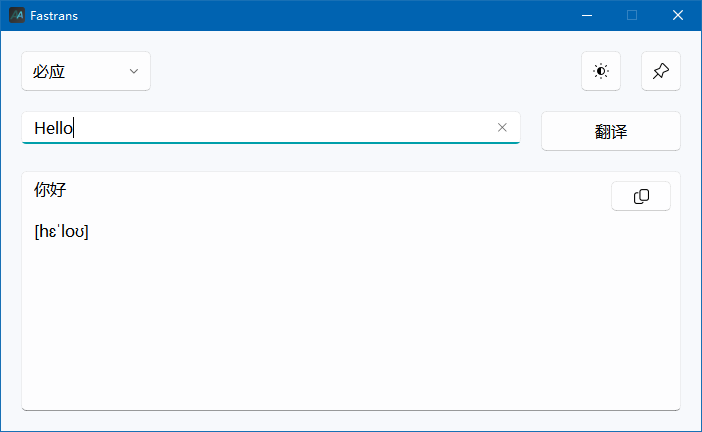
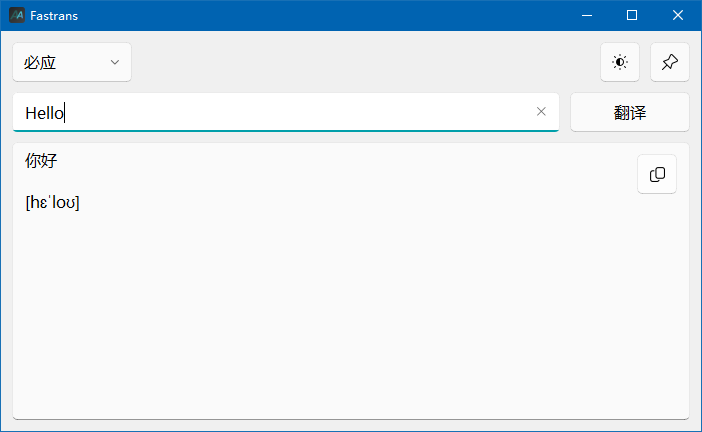
修改文档 -> v1.1.0

diff --git a/README.md b/README.md
@@ -6,7 +6,6 @@
 <br><br>
 Fastrans 是一个美观简约、方便快速的翻译软件，支持多平台。
 <br>
-Fastrans is a pretty and fast translation software, which supports different platforms.
 <br><br>
 <img alt="GitHub License" src="https://img.shields.io/github/license/YaoqxCN/Fastrans">
 <img alt="GitHub Release" src="https://img.shields.io/github/v/release/YaoqxCN/Fastrans">
@@ -21,26 +20,29 @@ Fastrans is a pretty and fast translation software, which supports different pla
 
 ## ✨ 功能 / Features
 
-- [x] 英汉互译 / English-Chinese translation
-- [x] 其他语种自动翻译中文 / Automatically translate other languages to Chinese
-- [x] 明暗主题切换 / Switch between light and dark mode
-- [x] 可选不同翻译平台（支持必应、有道、搜狗）/ Optional different translation platforms (support Bing, Youdao, Sogou)
-- [x] 可显示音标 / Available to show phonetic symbol
-- [x] 可置顶窗口 / Available to pin the window
+- [x] 英汉互译
+- [x] 明暗主题切换
+- [x] 可选不同翻译平台（支持必应、有道、搜狗）
+- [x] 可显示音标
+- [x] 可置顶窗口
+- [x] 最小化托盘
+- [x] 快捷键弹出窗口
 
-## ✒ 技术 / Technology
+> [!TIP]
+> 目前核心功能已完成，更多功能敬请期待！
+
+## ✒ 技术
 
 - Python 3.12
-- 使用 translators 库获取不同平台翻译结果 / Use translators to get results from different platforms
-- 使用 PyQt5 构建 GUI / Use PyQt5 to build GUI
-- 使用 pyqt-fluent-widgets 主题美化界面 / Use pyqt-fluent-widgets to beautify the GUI
-- 使用 eng_to_ipa 显示音标 / Use eng_to_ipa to show phonetic symbol
+- 使用 translators 库获取不同平台翻译结果
+- 使用 PyQt5 构建 GUI
+- 使用 pyqt-fluent-widgets 主题美化界面
+- 使用 eng_to_ipa 显示音标
+- 使用 keyboard 绑定快捷键
 
 ## 🎯 待办 / Todo
 
 **欢迎 PR！**
 
-- [ ] 翻译历史记录 / Translation history
-- [ ] 最小化托盘 / Minimize to tray
-- [ ] 快捷键弹出窗口 / Pop up window with shortcut keys
-- [ ] 优化 UI 布局 / Optimize UI layout
+- [ ] 翻译历史记录
+- [ ] 设置页面

diff --git a/CHANGELOG.md b/CHANGELOG.md
@@ -1,5 +1,14 @@
-# CHANGELOG
+# Change Log
 
-## [1.0.0] - 2024-8-17
+## [1.1.0] - 2024-8-30
 
-Basic Version
+### Features
+
+- 关闭窗口默认最小化到系统托盘
+- 使用快捷键 `Alt+W` 打开窗口
+
+### Refactored
+
+- 使用 `pyqt-fluent-widgets` 重新构建 UI
+- 优化 UI 布局，使其自适应窗口大小
+- 优化 UI 代码，删除冗余代码
